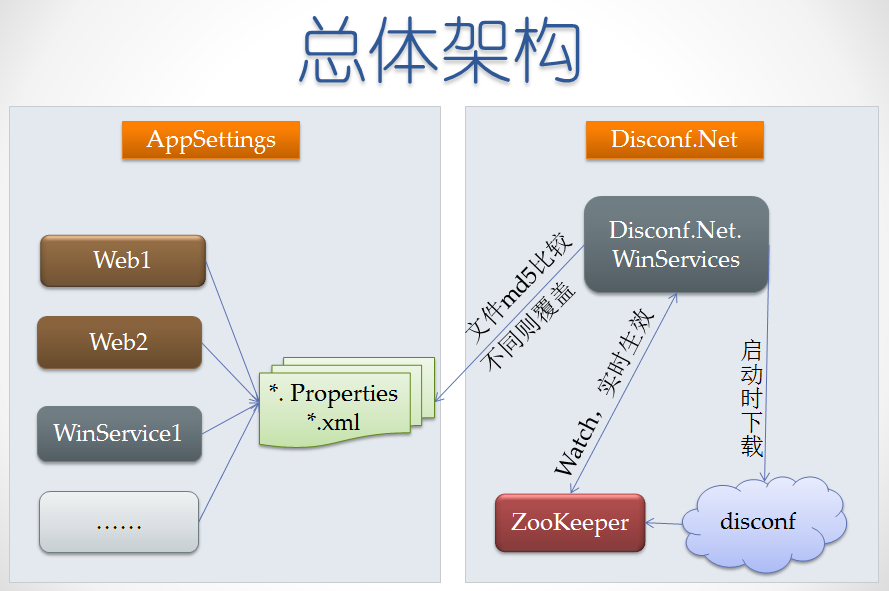
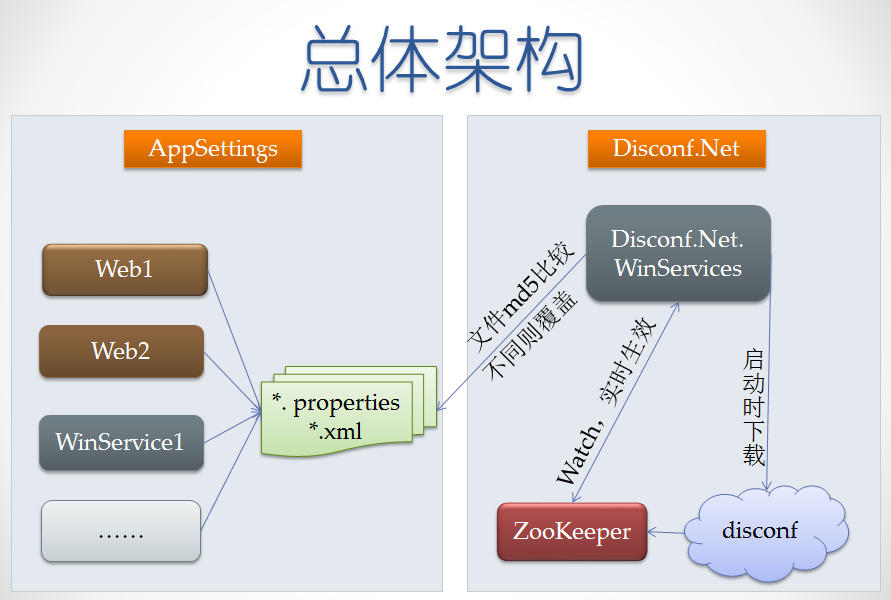
架构图细微调整

diff --git a/README.md b/README.md
@@ -13,8 +13,6 @@
 5. 搭配配置中心，本项目与百度配置中心disconf搭配；配置中心可以更换为其他，需自行实现
  
 
-
-#### 总体架构图
 ![image](https://github.com/GavinYao2018/disconfnet/blob/master/Pic/%E6%9E%B6%E6%9E%84%E5%9B%BE.png)
 
 
